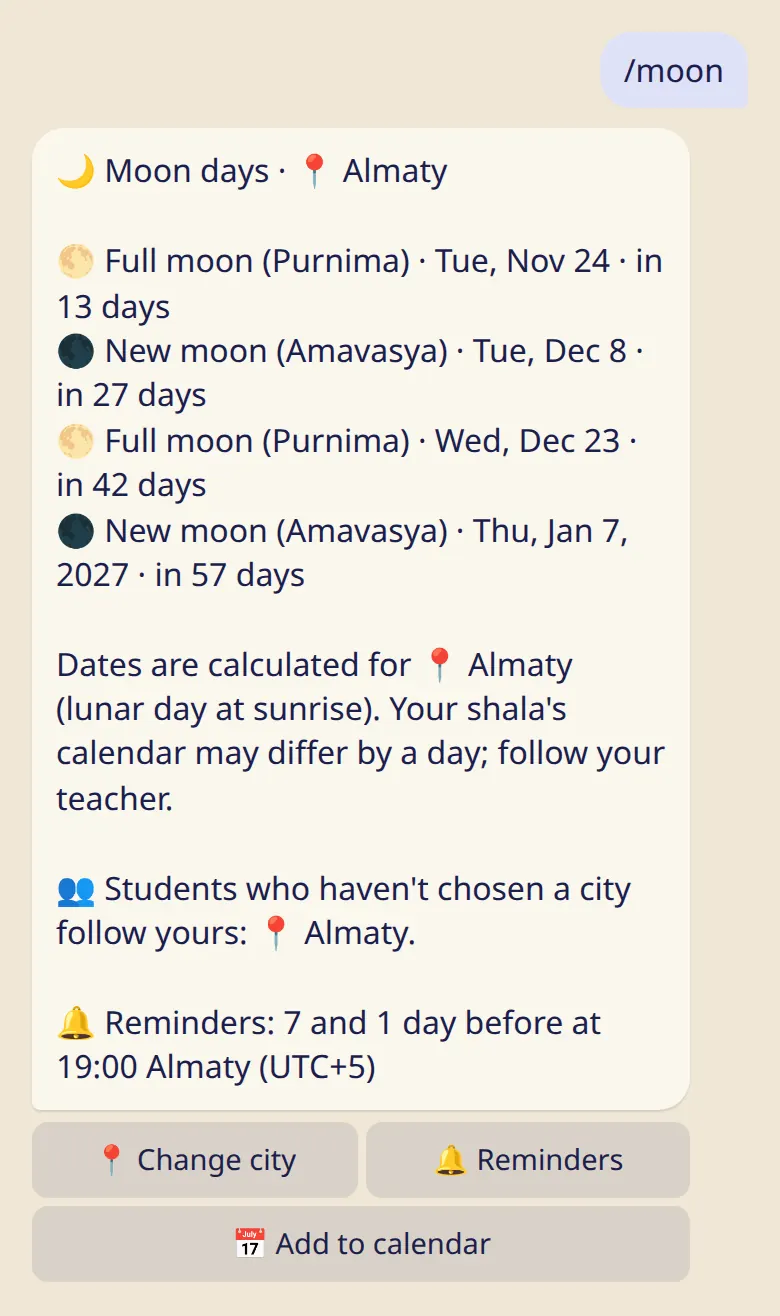
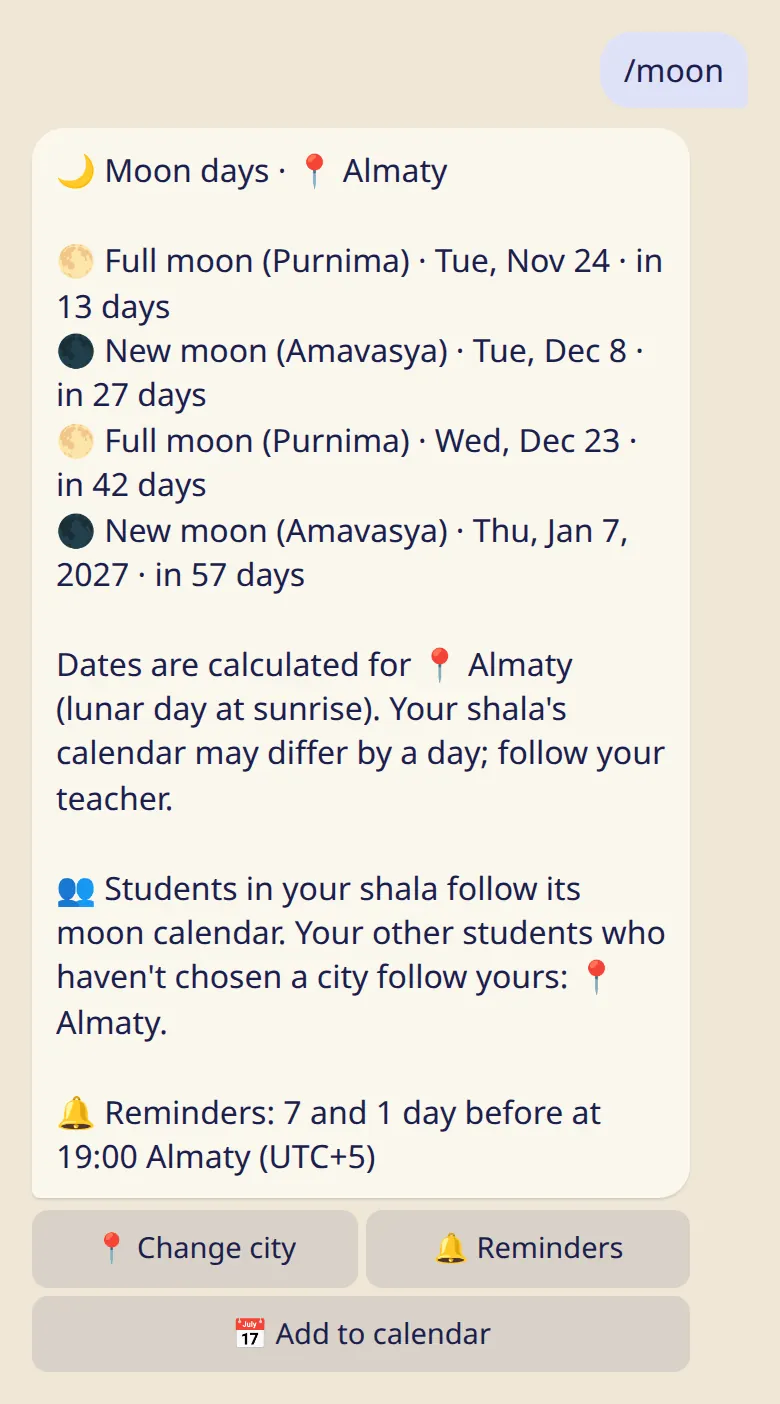
Copy: apply the owner's answers to Q265, Q266 and Q273
- listing form: "Level, in your own words (optional)" (Q265)
- listing wait: "Requests can be sent once a day. Try again a little later." (Q266)
- RU: «команда» instead of «сотрудники» in the shala strings (Q273)
- RU: «лунные сутки на восходе» in moon-calc-note and shala-moon-policy-note (Q273)
- RU guide screenshots re-shot; EN and RU teacher moon shots now show the Q279 line

diff --git a/miniapp/src/screens/settings/DirectoryListing.test.tsx b/miniapp/src/screens/settings/DirectoryListing.test.tsx
@@ -228,7 +228,7 @@ const sent = async (seen: Request[]) =>
 
 const NAME = "Name, exactly as in the directory";
 const REGION = "Country or region, as in the directory";
-const LEVEL = "Level (optional)";
+const LEVEL = "Level, in your own words (optional)";
 const NOTE = "How can we tell it's you? (optional)";
 const INTRO = /^If your name is in the Sharath Yoga Centre teachers directory/;
 const LINE_EN =
@@ -487,7 +487,9 @@ describe("the form", () => {
     type(NOTE, "annayoga.example");
     fireEvent.click(screen.getByRole("button", { name: "Send" }));
 
-    expect(await screen.findByRole("alert")).toHaveTextContent("You can send it again in a day.");
+    expect(await screen.findByRole("alert")).toHaveTextContent(
+      "Requests can be sent once a day. Try again a little later.",
+    );
     expect(value(NAME)).toBe("Anna Petrova");
     expect(value(REGION)).toBe("Kazakhstan");
     expect(value(NOTE)).toBe("annayoga.example");
@@ -531,7 +533,9 @@ describe("the form", () => {
     await openListing();
     await screen.findByLabelText(NAME);
 
-    expect(screen.getByText(says("You can send it again in a day."))).toBeInTheDocument();
+    expect(
+      screen.getByText(says("Requests can be sent once a day. Try again a little later.")),
+    ).toBeInTheDocument();
     expect(screen.getByRole("button", { name: "Send" })).toBeDisabled();
     expect(telegram.main?.visible).toBe(false);
     act(() => {

diff --git a/miniapp/src/screens/shalas/Attendance.test.tsx b/miniapp/src/screens/shalas/Attendance.test.tsx
@@ -414,6 +414,6 @@ describe("staff roster", () => {
     renderRoster("ru");
 
     expect(await screen.findByText("✅ 1 · 🙋 3 ждут подтверждения")).toBeInTheDocument();
-    expect(screen.getByText("сотрудник")).toBeInTheDocument();
+    expect(screen.getByText("из команды")).toBeInTheDocument();
   });
 });

diff --git a/backend/tests/bots/test_shalas_bot.py b/backend/tests/bots/test_shalas_bot.py
@@ -54,11 +54,11 @@ EN_JOIN = (
 RU_JOIN = (
     "🏛 Присоединиться к шале Ashtanga Almaty (📍 Алматы)? "
     "Если присоединиться: "
-    "• Преподаватели и сотрудники шалы увидят твоё имя (Ash). Ничего из журнала. "
-    "• Сотрудники шалы могут отправлять участникам объявления через бота. Их можно отключить. "
+    "• Преподаватели и команда шалы увидят твоё имя (Ash). Ничего из журнала. "
+    "• Команда шалы может отправлять участникам объявления через бота. Их можно отключить. "
     "• Лунные дни будут считаться по календарю шалы, если город не выбран ни тобой, ни твоим "
     "учителем. Если учитель преподаёт в этой шале, календарь шалы важнее. "
-    "• Посещение занятий могут отмечать сотрудники шалы, и ты тоже. Эти отметки видны тебе, и их "
+    "• Посещение занятий может отмечать команда шалы, и ты тоже. Эти отметки видны тебе, и их "
     "можно снять в любой момент. "  # SC-05 (Q190)
     "• Выйти можно в любой момент в /teachers. Сообщений никто не получит. "
     "Присоединяйся только к знакомой шале: создать шалу с любым названием может кто угодно."
@@ -76,7 +76,7 @@ RU_STAFF = (
     "🏛 Anna приглашает тебя в шалу Ashtanga Almaty. Роль: Ассистент. "
     "Если подтвердить: "
     "• Все в шале, включая учеников, увидят твоё имя (Ash) и роль. "
-    "• Тебе будут видны имена учеников и сотрудников, но не их журналы. "
+    "• Тебе будут видны имена учеников и людей из команды, но не их журналы. "
     "• Объявления шалы тоже будут приходить тебе через бота. Их можно отключить. "
     "• Можно отмечать посещение занятий. "  # SC-05 (Q190)
     "• Выйти можно в любой момент в /teachers."

diff --git a/backend/tests/api/test_ics.py b/backend/tests/api/test_ics.py
@@ -28,7 +28,7 @@ RU_TITLE = "Утренний майсор для всех уровней · 🧘
 # A staff name as typed: a comma, a semicolon, a backslash, a newline and a BEL.
 ODD_NAME = "Dana, Jr.; \\o/\nsecond\x07line"
 MOON_NOTE_RU = (
-    "Даты рассчитаны по городу 📍 Майсур (лунный день на восходе). Календарь твоей шалы может"
+    "Даты рассчитаны по городу 📍 Майсур (лунные сутки на восходе). Календарь твоей шалы может"
     " отличаться на день: ориентируйся на своего учителя."
 )
 
@@ -105,9 +105,9 @@ GOLDEN_LINES = [
     "TRANSP:TRANSPARENT",
     "SUMMARY:🌕 Полнолуние (Пурнима)",
     "DESCRIPTION:Даты рассчитаны по городу 📍 Майсу",  # 75 octets
-    " р (лунный день на восходе). Календарь тво",
-    " ей шалы может отличаться на день: ориент",
-    " ируйся на своего учителя.",
+    " р (лунные сутки на восходе). Календарь тв",
+    " оей шалы может отличаться на день: ориен",
+    " тируйся на своего учителя.",
     "END:VEVENT",
     "END:VCALENDAR",
 ]

diff --git a/backend/tests/infrastructure/test_i18n_classes.py b/backend/tests/infrastructure/test_i18n_classes.py
@@ -112,7 +112,7 @@ COPY: list[tuple[str, dict[str, str | int], str, str]] = [
         {},
         "Dates follow the shala's moon city (lunar day at sunrise). If your shala observes "
         "another day, use Hold anyway or Cancel.",
-        "Даты считаются по лунному городу шалы (лунный день на восходе). Если в шале отмечают "
+        "Даты считаются по лунному городу шалы (лунные сутки на восходе). Если в шале отмечают "
         "другой день, используй «Всё равно провести» или «Отменить».",
     ),
 ]

diff --git a/backend/tests/infrastructure/test_i18n_calendar_feed.py b/backend/tests/infrastructure/test_i18n_calendar_feed.py
@@ -93,7 +93,7 @@ COPY: list[tuple[str, dict[str, str], str, str]] = [
 MOON_CALC_NOTE = {
     "en": "Dates are calculated for 📍 Mysuru (lunar day at sunrise). Your shala's calendar may"
     " differ by a day; follow your teacher.",
-    "ru": "Даты рассчитаны по городу 📍 Mysuru (лунный день на восходе). Календарь твоей шалы"
+    "ru": "Даты рассчитаны по городу 📍 Mysuru (лунные сутки на восходе). Календарь твоей шалы"
     " может отличаться на день: ориентируйся на своего учителя.",
 }
 
